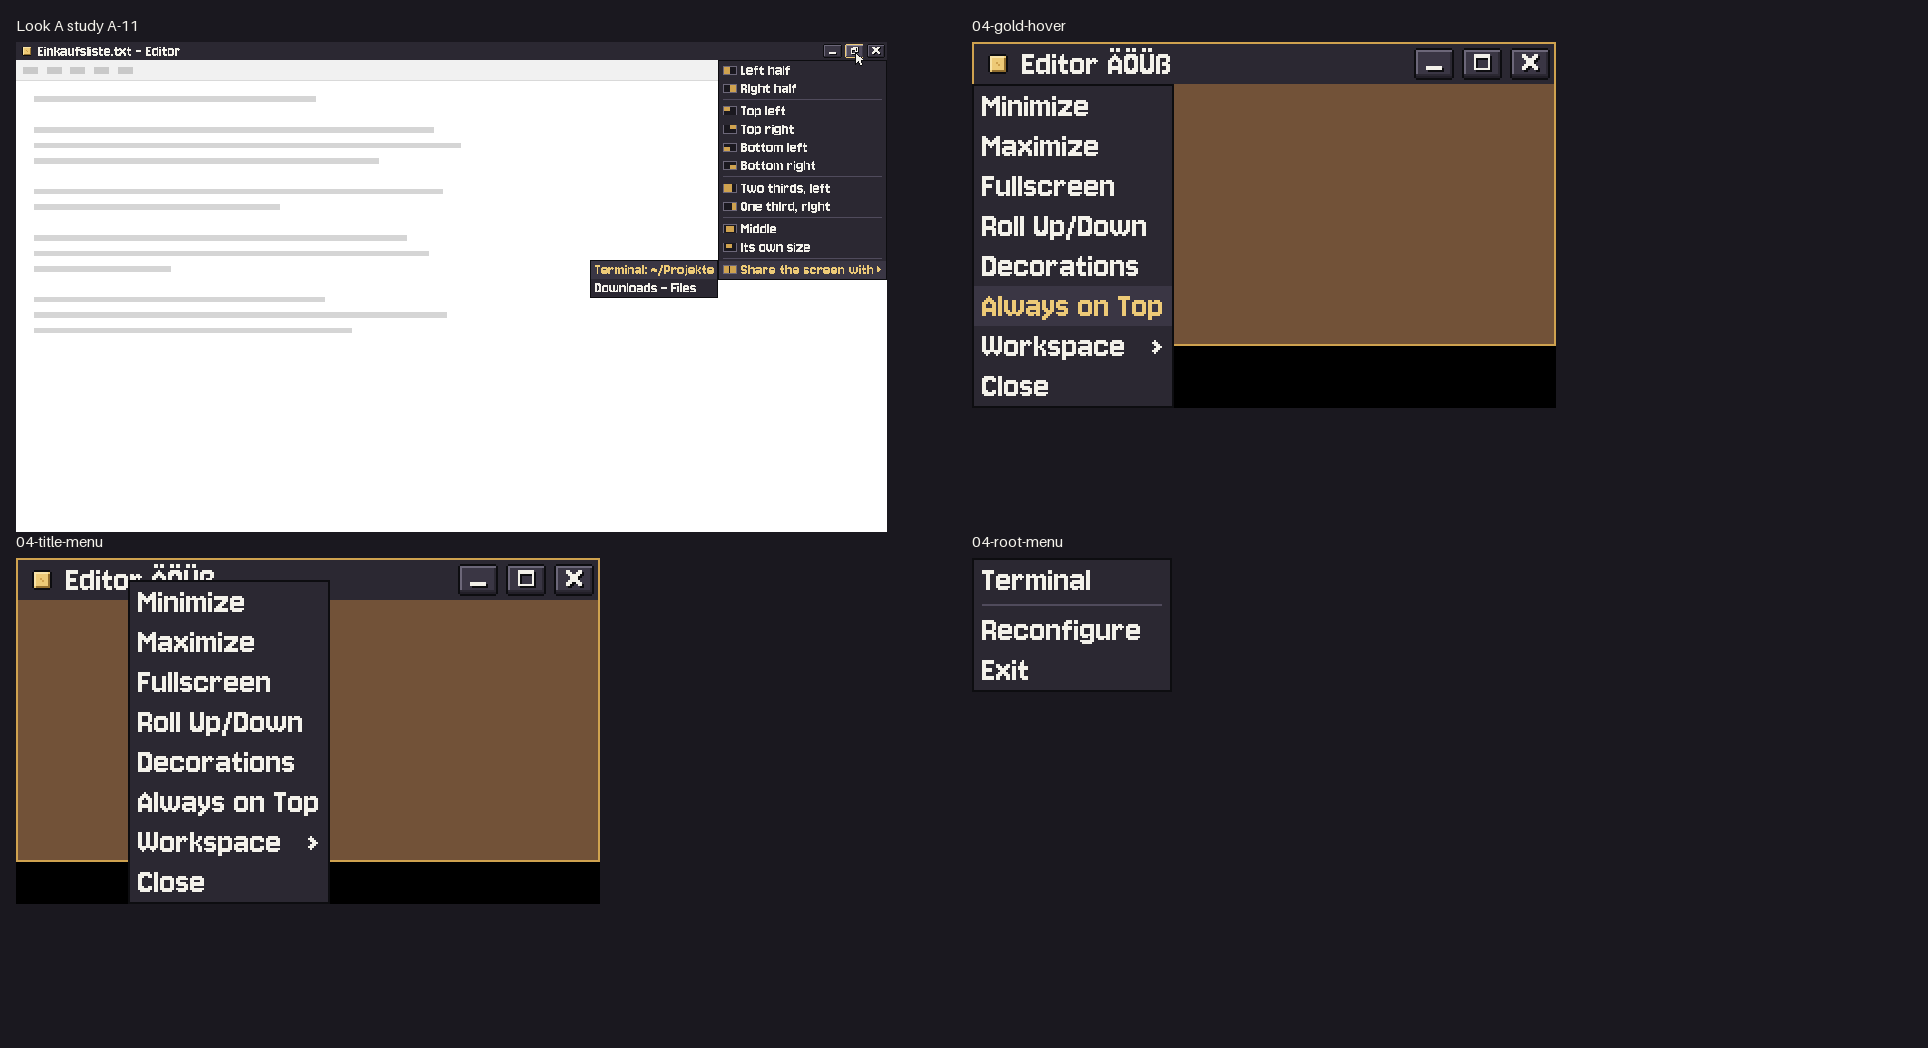
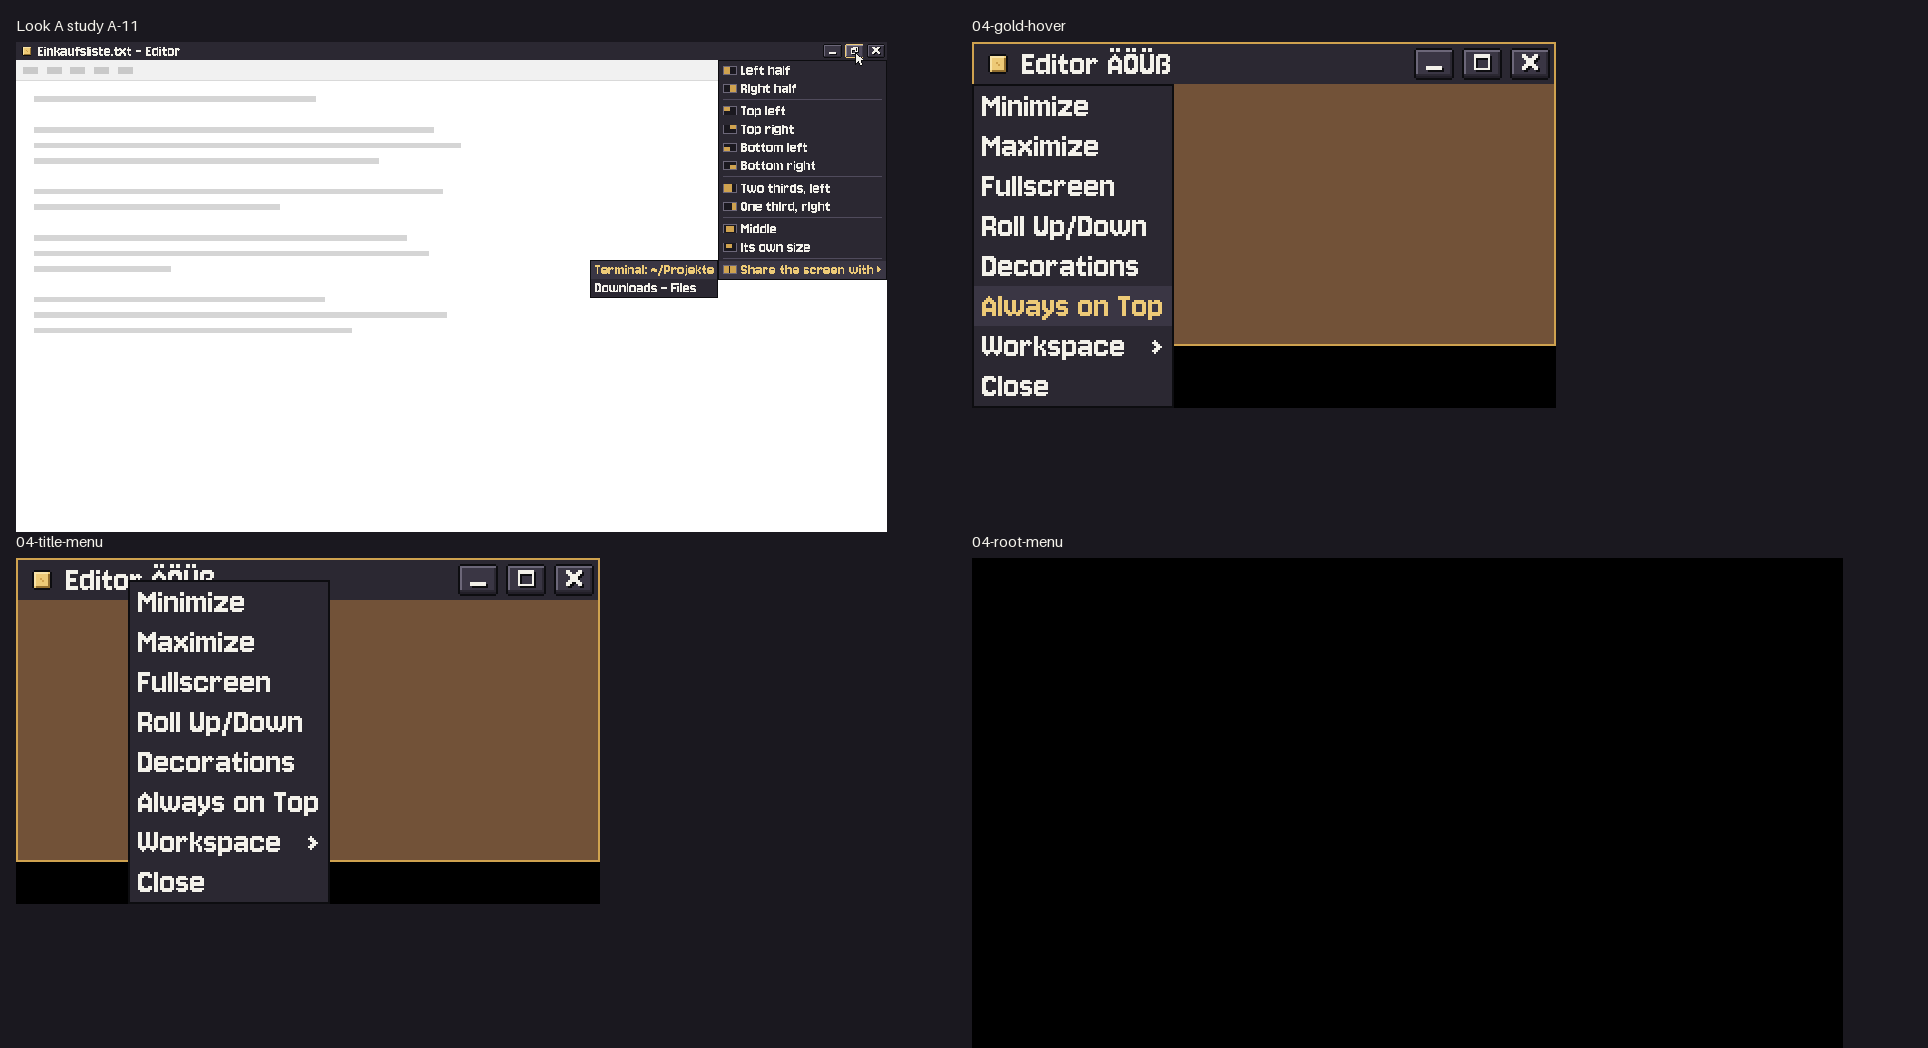
Record package 329 review-round proof and R29 handoff
Claude-Session: https://claude.ai/code/session_015ffFyPMp4s7H8UtPWmB7bu

Changed region(s): [[0.4979, 0.5191, 0.9647, 1.0]]

diff --git a/reviews/329-window-frame/REPORT.md b/reviews/329-window-frame/REPORT.md
@@ -5,6 +5,7 @@
 - Step 1 generated and installed Look A's frame theme and pack. It selects AresOS in labwc, adds Shift+Alt+Tab and clears title-bar scrolling. The image checks pin the shipped theme and the expanded pack. [Step 1 log and release handoff](PROGRESS.md)
 - Step 2 extended the Wayland test client with a floating size, title, app ID and solid colour. Floating windows negotiate decorations, and both client modes log configure states and close cleanly. Existing callers still start fullscreen when they omit a size.
 - Frame mode shares package 320's rootless Podman gate, D-Bus and compositor helpers. It runs new and merge-base sessions with the shipped fonts and themes. The published images are private headless Look A captures and composites made with the public Look A study. [Harness instructions](../../os/tests/indicator-harness/README.md)
+- Review round 1 adds direct keyboard and focused-output checks and matches labwc's `[ERROR]` severity for theme, image and decoration sources. The shipped `Root` mouse context clears all three bare-desktop presses so they cannot open the built-in menu's session-ending Exit item. [Saved review](REVIEW-1.md)
 
 ## Verified
 
@@ -15,17 +16,21 @@
 | 1. Frames | The plain clients kept 580 × 260 and 620 × 300 areas. The GTK 4 client kept 620 × 300 with a negotiated server frame. Both focus states had the exact 40 px bar and 2 px edge. The long title was cut and both 4× title crops had zero intermediate-colour pixels. | [Sheet](evidence/sheet-01.png) |
 | 2. Hover and close | All eight shipped hover cells matched. Close turns red. Pressing close and moving out before release kept the window open. Clicking it logged `CLOSE`, returned zero and removed the window. A separate client holding a pointer lock also closed with exit zero. | [Sheet](evidence/sheet-02.png) |
 | 3. Toggles | Button and title double-click maximize put the bar at the top, omitted the edge and restored the exact former client rectangle. A separate two-workspace run used shade and all-desktops. All 36 normal, hover and toggled PNGs matched at 48 × 40 and 1:1. | [Sheet](evidence/sheet-03.png) · [PNG list](evidence/01-03-pngs.txt) |
-| 4. Menus | The gold block and title right-click produced eight complete 40 px rows with the 2 px outline and Look A hover colours. Escape kept focus. The root menu used the same colours and its three rows remained readable. | [Sheet](evidence/sheet-04.png) · [Pixel measurements](evidence/04-menu-rows.json) |
+| 4. Menus | The gold block and title right-click produced eight complete 40 px rows with the 2 px outline and Look A hover colours. Escape kept focus. Left, right and middle presses and releases kept the bare output pixel-identical. | [Sheet](evidence/sheet-04.png) · [Pixel measurements](evidence/04-menu-rows.json) |
 | 5. Bindings | Both scroll directions preserved pixels, geometry, shade and focus from both starting states. Title drag, top-edge maximize, left and right snap, border resize, vertical maximize, minimize, Alt+F4 and both Super+drag bindings agreed with the baseline. Both snap previews used the Look A tint and three 2 px lines. | [Sheet](evidence/sheet-05.png) · [Before and after table](evidence/05-bindings.json) |
-| 6. Alt+Tab | The world rule produced a maximized, borderless 1920 × 1080 client below the overlapping app. The panel appeared on the focused output with 280 × 208 tiles, a 4 px gold selection and a black, gold and black preview outline. Quick switching, reverse switching, minimized restoration, Escape and tile clicks worked. Pointer events and injected deltas matched the baseline. | [Sheet](evidence/sheet-06.png) · [Event comparison](evidence/06-switcher.json) |
+| 6. Alt+Tab | The world rule produced a maximized, borderless 1920 × 1080 client below the overlapping app. The panel appeared only on the focused output while the pointer was on the other one. It used 280 × 208 tiles, a 4 px gold selection and a black, gold and black preview outline. Quick switching, reverse switching, minimized restoration and tile clicks worked. The Escape keyboard and pointer results matched main. | [Sheet](evidence/sheet-06.png) · [Event comparison](evidence/06-switcher.json) |
 | 7. Look setting | Fresh sessions with A, B and C printed the requested setting and rendered pixel-identical frames. | [Sheet](evidence/sheet-07.png) |
 | 8. For review | Eight sheets pair the headless captures with A-09, A-10, A-11 and A-14. The button atlas contains the 36 captured cells. Package 320's indicator suite also ran with the expanded pack. | [Atlas and study](evidence/sheet-08.png) · [Indicator results](evidence/indicator-results.txt) |
 
-The pack, theme and rc.xml unit modules reported `OK` for 1, 3 and 2 tests respectively when run one at a time with `python3 -m unittest discover -s os/tests -p <module>`. Bash syntax, Python compilation and `git diff --check` passed. The rc.xml comparison still shows one new keyboard row and two scroll overrides alongside the theme and switcher changes. `crown_pin()` found exactly one pin and it matched the installed Crown directory. The R28 test and indicator loader match the baseline. The loader reads only the `sprites` key.
+The pack, theme and rc.xml unit modules reported `OK` for 1, 3 and 2 tests respectively when run one at a time with `python3 -m unittest discover -s os/tests -p <module>`. Bash syntax, Python compilation and `git diff --check` passed. The review-round rc.xml comparison adds the `Root` context as one row with three button overrides. `crown_pin()` found exactly one pin and it matched the installed Crown directory. The R28 test and indicator loader match the baseline. The loader reads only the `sprites` key.
 
 Both frame runs completed with 35 scenario checks, 36 exact button images and eight review sheets. The first indicator run failed test 9 at 95% after the mock volume reader encountered partially rewritten JSON. The fixture now uses shared locks for reads and the existing exclusive lock for writes. The unchanged indicator assertions then passed all nine groups and 52 checks twice. The brightness and volume stand-ins hold neither lock during a simulated hang. [Frame results](evidence/results.txt) · [Indicator results](evidence/indicator-results.txt) · [Repeat](evidence/indicator-repeat-results.txt)
 
 The package 320 and 329 Python image-check blocks also passed against the checkout's staged image paths. The hosted run with `check_build=build` passed the image and UEFI guest checks on `0dbd6256276fefbfa8f4d7ac2aaa4f2602a80e12`. The `checks_only=true` workflow on the same commit reported `Ran 2490 tests in 3031.966s` and `OK (skipped=24)` and passed the full ways-back model. Both watches returned zero. [Image build 44942183654](https://github.com/Ares-Empire/AresOS/actions/runs/44942183654) · [Regressions 44945705491](https://github.com/Ares-Empire/AresOS/actions/runs/44945705491)
+
+After Escape, the injected unbound `A` delivered neither press nor release to the still-active world in either private session. Relative motion still arrived with the pointer lock intact. Switching away and back restored keyboard delivery and relocked the pointer. The baseline at `a7fb7cfe` used XML byte-identical to current `main`, so the keyboard loss is inherited labwc 0.9.6 behavior. [Event comparison](evidence/06-switcher.json) · [Branch client log](evidence/06-branch-switch-aresos-desktop.log) · [Baseline client log](evidence/06-baseline-switch-aresos-desktop.log)
+
+Review round 1 ran `HARNESS_IMAGE_TAG=329-fix1 os/tests/indicator-harness/run.sh image`, then `frame` and `run` twice each, one rootless container at a time. Frame mode passed 38 checks, 36 exact PNG comparisons and eight review sheets each time. Indicator mode passed nine scenarios and 52 checks each time. The retained default mouse gestures include the verified title-bar drag, close button and edge resize. `python3 -m unittest discover -s os/tests -p 'test_aresos_labwc_rc.py' -v` reported `Ran 2 tests` and `OK` with bytecode writes disabled. `bash -n os/ci/image-checks.sh` and the package 329 image assertions against the staged paths also passed. [Run counts](evidence/fix-round-1-results.txt) · [Bindings](evidence/05-bindings.json)
 
 ## Not verified
 
@@ -33,13 +38,13 @@ The real panel and owner app list need a separate test. Live B/C sync and reconf
 
 ## JUDGMENT-CALL
 
-None. The frame proof required no change to the shipped theme, layout, bindings or rules from step 1. Harness fixes added normal xdg-decoration negotiation, avoided unintended double-clicks and waited for the compositor's rendered or protocol state before sampling. The indicator fixture fix wraps its JSON in the same file lock the device stand-ins already use for updates.
+The lead and `linux-aresos` agreed to clear the three root mouse presses for R29. Leaving the default menu reachable exposes Exit, which ends the session. Binding a replacement menu belongs to the layouts package. That package can replace the three no-ops by editing the `Root` context and updating its test and release expectations.
 
 ## PLAN-GAP
 
 - The baseline's virtual wheel direction that shades is labwc Up (`axis -1`). Down (`axis +1`) unshades and focuses. The test injects each direction from both starting states, including the two prescribed in the brief. On the baseline, Up over an already-shaded window also drops the other window's focus. The branch preserves the starting state in all four cases. [Baseline comparison](evidence/05-bindings.json)
-- The built-in root menu includes Terminal ahead of Reconfigure and Exit. The window menu also shows Workspace in the shipped one-workspace config. [Menu captures](evidence/sheet-04.png)
+- The built-in window menu shows Workspace in the shipped one-workspace config. [Menu captures](evidence/sheet-04.png)
 
 ## Open questions
 
-The root menu's Exit row is a lead handoff for the layouts package. The merge gate still needs the fresh review and the release owner read listed in the progress log.
+The merge gate still needs the fresh review and the release owner read listed in the progress log.

diff --git a/reviews/329-window-frame/PROGRESS.md b/reviews/329-window-frame/PROGRESS.md
@@ -46,8 +46,9 @@ Dispatched `gh workflow run os-image.yml --ref pkg/329-window-frame -f check_bui
 |---|---|---|
 | `os/config/usr/share/aresos/labwc/rc.xml` | `abf1fde2` | Selects `AresOS`, configures the switcher and adds Shift+Alt+Tab and the two title-bar scroll overrides. |
 | `os/ci/image-checks.sh` | `ed203ac1` | Pins the expanded pack and new theme, checks the frame settings and keeps the Crown pin for R28. |
+| `os/config/usr/share/aresos/labwc/rc.xml`, `os/ci/image-checks.sh` | `2dbcb560` | Clears left, right and middle `Root` presses and checks the exact mouse block. Bare-desktop clicks open no root menu because its Exit item would end the session. |
 
-The R29 release profile belongs to `linux-aresos`. The image adds 37 theme files and 36 pack cells and changes `look.json`. The `rc_xml_settings` delta replaces `theme` and `windowSwitcher`, adds `A-S-Tab`, and adds two `mouse` rows. Keep Crown's files and Space Grotesk for R28's checks and the startup cover, respectively. The R29 guest walk should expect the `AresOS` theme.
+The R29 release profile belongs to `linux-aresos`. The image adds 37 theme files and 36 pack cells and changes `look.json`. The `rc_xml_settings` delta replaces `theme` and `windowSwitcher`, adds the `A-S-Tab` keyboard row and adds three `mouse` rows. They are `<default />`, `TitleBar` with the two scroll overrides, and `Root` with three press no-ops to keep the session-ending Exit item out of bare-desktop clicks. Keep Crown's files and Space Grotesk for R28's checks and the startup cover, respectively. The R29 guest walk should expect the `AresOS` theme.
 
 ## The public and private check
 
@@ -76,3 +77,10 @@ Both GitHub Actions runs report the pushed code and evidence commit `0dbd6256276
 - The PR privacy check passed. The local Podman cleanup removed only the four images built in this run, and there are no files over 500 MB in `.work/`. The remaining merge gates are the fresh review and the `linux-aresos` handoff read.
 
 Before pushing this results-only commit, reran the SHA-256 comparison across all 322 committed file versions and all intermediate versions, including both updated review documents and every picture. Zero private hash matches. The public Look A study and the isolated capture run account for all 211 PNG file versions in the scan.
+
+## Review round 1
+
+- `9f81bd57` records the saved review and measures unbound key delivery around Escape against main's baseline. It checks that the Alt+Tab picker follows keyboard focus with the pointer on the other output and fails a frame run on `[ERROR]` lines from labwc's theme, image and decoration sources. [Saved review](REVIEW-1.md) · [Switcher comparison](evidence/06-switcher.json)
+- `2dbcb560` keeps `<default />` and clears three bare-desktop presses with `None`, as documented in the installed labwc 0.9.6 manuals. No button opened the root menu, and the title-bar drag, close button and edge resize passed in the private compositor. The everyday account and desktop tests do not read the mouse rows. Release 28 reads its published XML, and the package 329 release-diff test pins the new row without changing the classifier. [Menu measurements](evidence/04-menu-rows.json)
+- Both frame reruns passed 38 checks, all 36 button PNG comparisons and eight review sheets. Both indicator reruns passed nine scenarios and 52 checks. The touched rc.xml module passed two tests by discovery, the staged package 329 image assertions passed, and `os/config` had zero `__pycache__` directories. [Run counts](evidence/fix-round-1-results.txt) · [Report](REPORT.md)
+- Before pushing the corrected head, compared every outgoing committed blob version, including intermediate versions and this progress entry, against the ignored lead-provided SHA-256 list. Zero private hash matches. The public Look A study and isolated frame captures account for the outgoing PNGs. There were no files above 500 MB in `.work/`.

diff --git a/reviews/329-window-frame/KNOWN-LIMITS.md b/reviews/329-window-frame/KNOWN-LIMITS.md
@@ -1,8 +1,7 @@
 # 329 known limits
 
 - At 1920 × 1080 and scale 1, the two Jersey 10 title crops contained only the exact ink and bar colours. The long title ends in an ellipsis. Other output scales and rendering backends remain unmeasured. [Title crops](evidence/sheet-01.png)
-- Alt+Tab temporarily takes input for the picker. Escape leaves the pre-switch client active and its pointer lock intact. Actually switching away releases the lock. When the pointer is still over the uncovered world, that surface gets the relative delta and an absolute motion while unlocked. Switching back relocks it. The merge base has the same sequence. [Switcher event comparison](evidence/06-switcher.json)
+- In labwc 0.9.6, Alt+Tab sends the world `KBD_LEAVE`. After Escape the world is still active and receives the same relative pointer delta with its lock intact, but it receives neither press nor release of an unbound `A`. Switching away releases the lock. While the pointer is over the uncovered world, it receives relative and absolute motion. Switching back sends `KBD_ENTER`, relocks the pointer and restores key delivery. The same sequence occurs with main's baseline `rc.xml`. [Switcher event comparison](evidence/06-switcher.json)
 - labwc places each switcher label below the thumbnail inside its tile and centres it. The minimized test client keeps its thumbnail, and clicking a tile chooses it immediately. The synthetic apps have no installed app icons in the harness, so the captures show their names and client pixels. [Switcher sheet](evidence/sheet-06.png)
-- An empty output opens labwc's built-in menu with Terminal, a separator, Reconfigure and Exit. This menu is inherited. Choosing Exit ends the labwc session. The layouts package owns the replacement menu. [Root menu capture](evidence/04-root-menu.png)
 - Look B and C select the same installed Look A theme at start. The texture sync package owns live reconfigure, redraw, geometry and pointer capture during a look change, and atomic installation of a home theme.
 - The overview owns Super+Tab, the cover filters and startup and shutdown with those filters, and the independent foreign-toplevel activation request for a minimized window. The Alt+Tab restoration here exercises labwc's own picker. The real panel and package 31's app list remain outside the headless proof.

diff --git a/briefs/329-window-frame.md b/briefs/329-window-frame.md
@@ -89,7 +89,7 @@ Then a fresh Codex review. Before each step the lead writes the hash-only `.work
 - **R29's profile belongs to `linux-aresos`.** 329 uses `release_diff.rc_xml_changes()` unchanged. `linux-aresos` makes and lists a separate R29 profile commit for the AresOS theme pin and these image differences:
   - Added: `/usr/share/themes/AresOS/labwc/`, `themerc` and 36 PNGs, 37 files, `root:root` 0644.
   - Added to B320's pack (itself new in R29): 36 files under `/usr/share/aresos/look/sprites/frame/`; changed: `look.json`.
-  - Changed: `/usr/share/aresos/labwc/rc.xml`, in `rc_xml_settings` rows: the `theme` row (Ares-Crown to AresOS) and the `windowSwitcher` row replaced; added one `keyboard` row (`A-S-Tab`) and two `mouse` rows (`<default>` and the `TitleBar` context); B320's six key rows and B321's recovery changes are their own.
+  - Changed: `/usr/share/aresos/labwc/rc.xml`. The `rc_xml_settings` delta replaces `theme` (Ares-Crown to AresOS) and `windowSwitcher`, adds one `keyboard` row (`A-S-Tab`) and adds three `mouse` rows (`<default />`, `TitleBar` and `Root`). Review round 1 added `Root` to clear left, right and middle presses on bare desktop, where the built-in menu's Exit item would end the session. B320's six key rows and B321's recovery changes are their own.
   - Kept: `/usr/share/themes/Ares-Crown/labwc/` unchanged and still pinned; Space Grotesk; the GSettings override and `gschemas.compiled`. No package, lock, `Containerfile` or `build.sh` change.
   - R29's walk on the booted guest: labwc's theme is `AresOS` (`release28_walk.THEME` is R28's).
 - **The owner-summary line:** "Windows now wear AresOS's own pixel frame: a dark stone title bar with a gold block and pixel buttons, a gold edge round the window you're using, and close turns red; Shift+Alt+Tab steps back through Alt+Tab, and scrolling over a title bar no longer rolls the window up."
